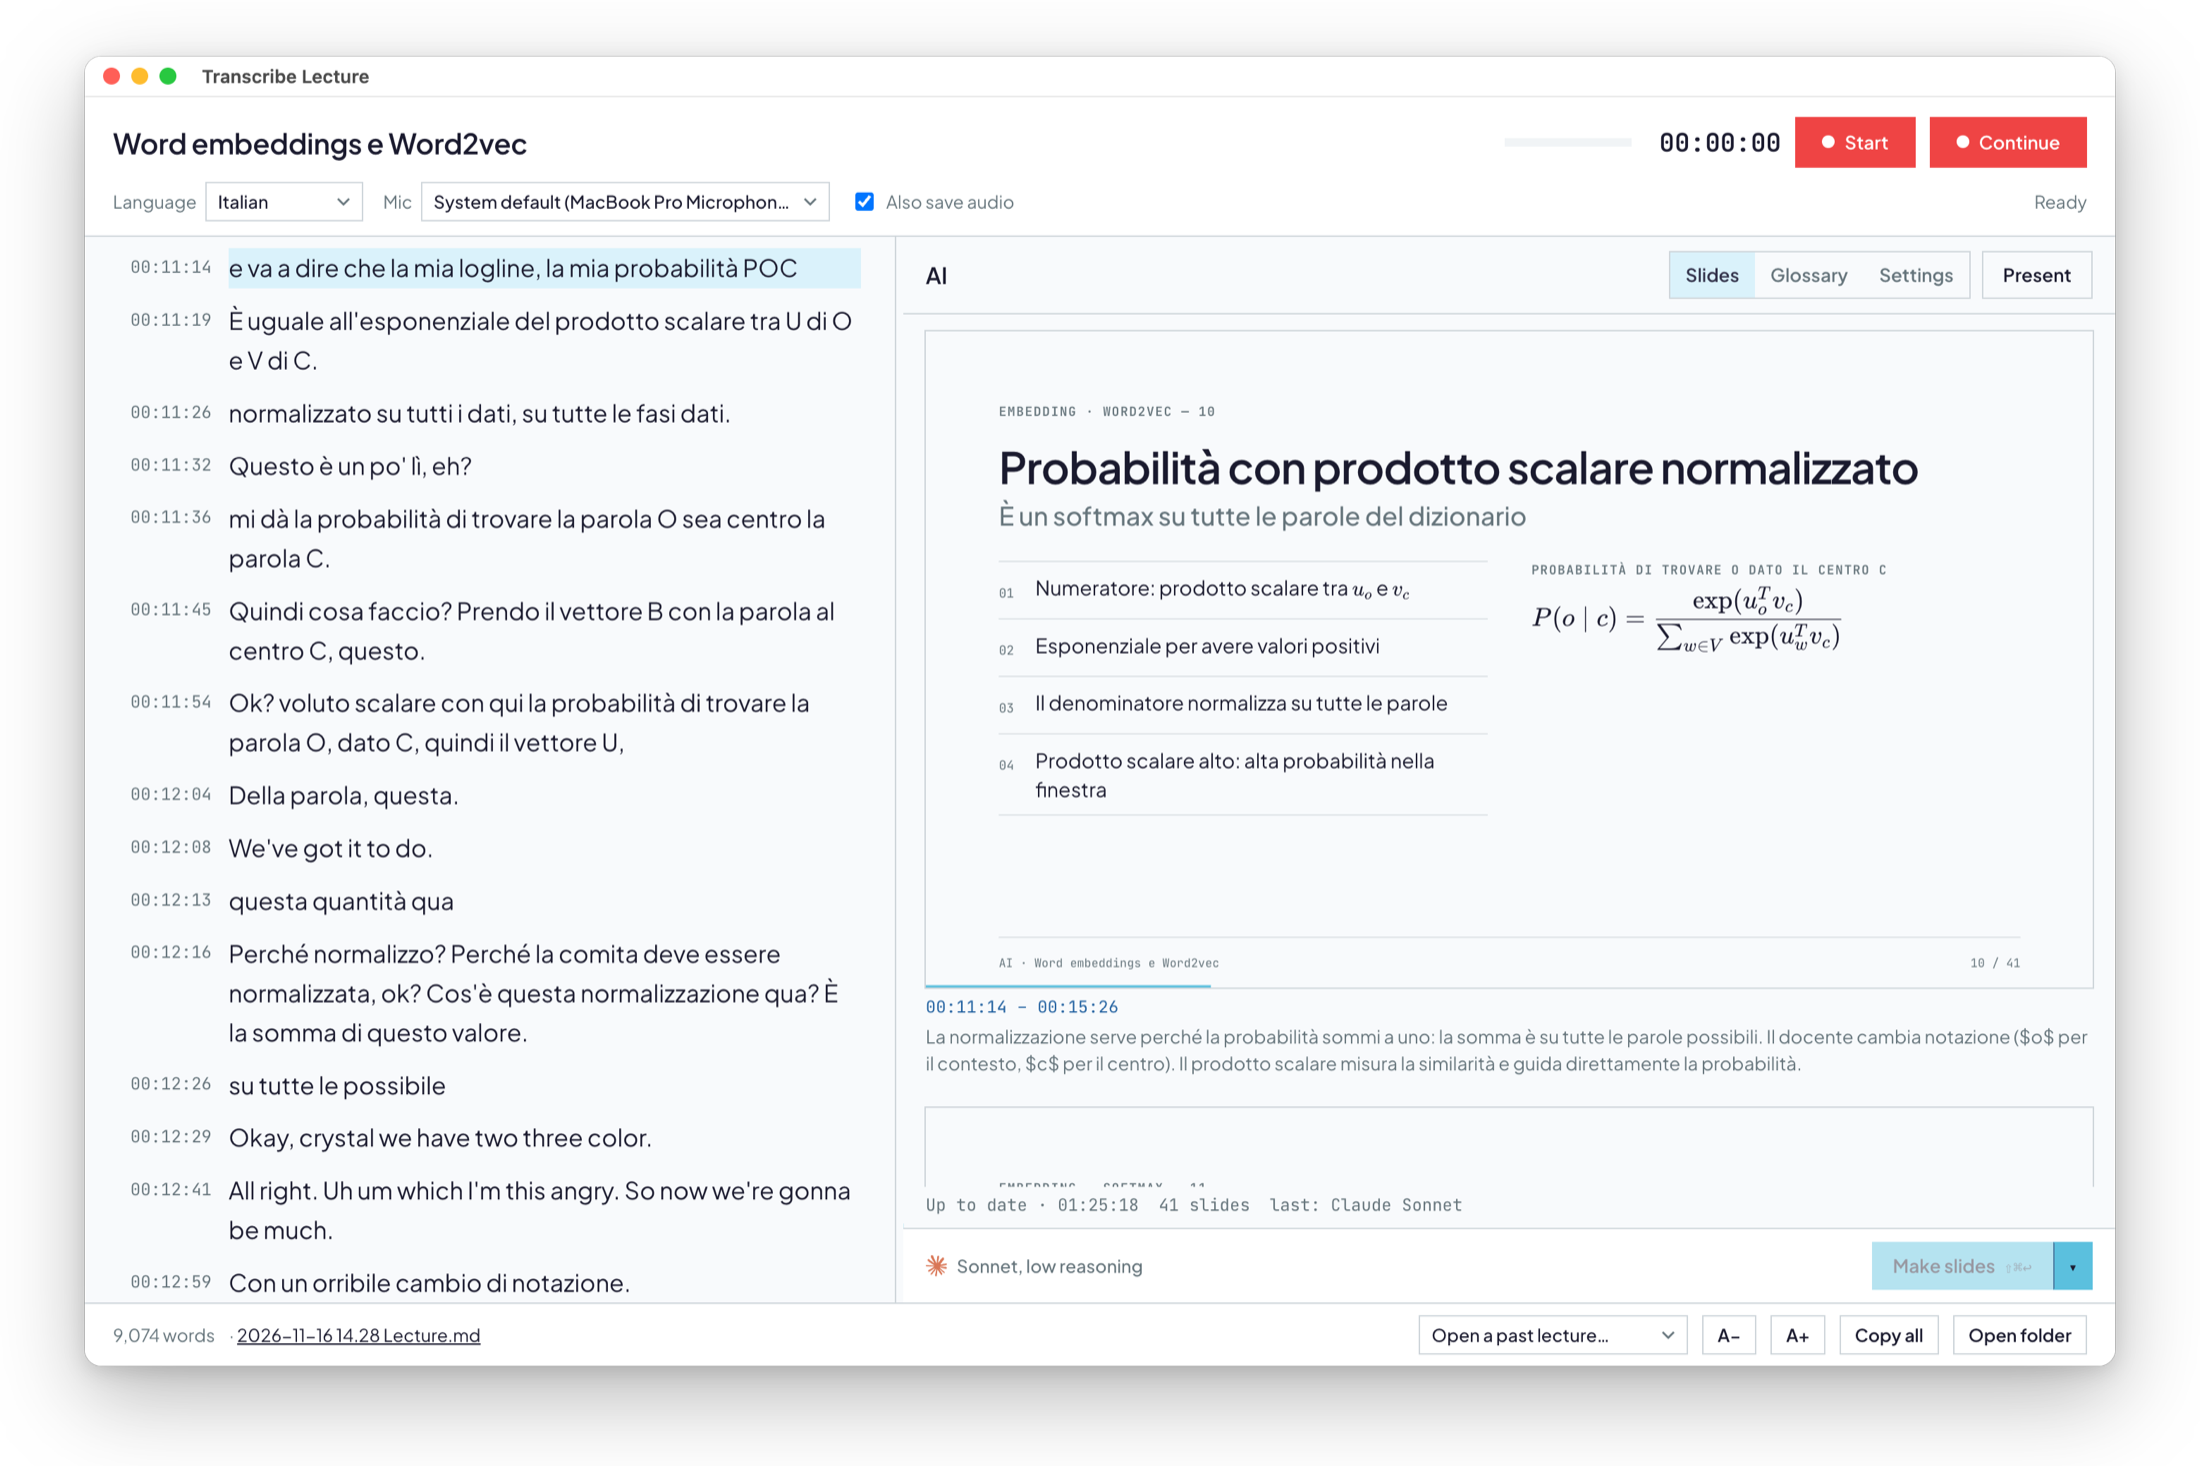
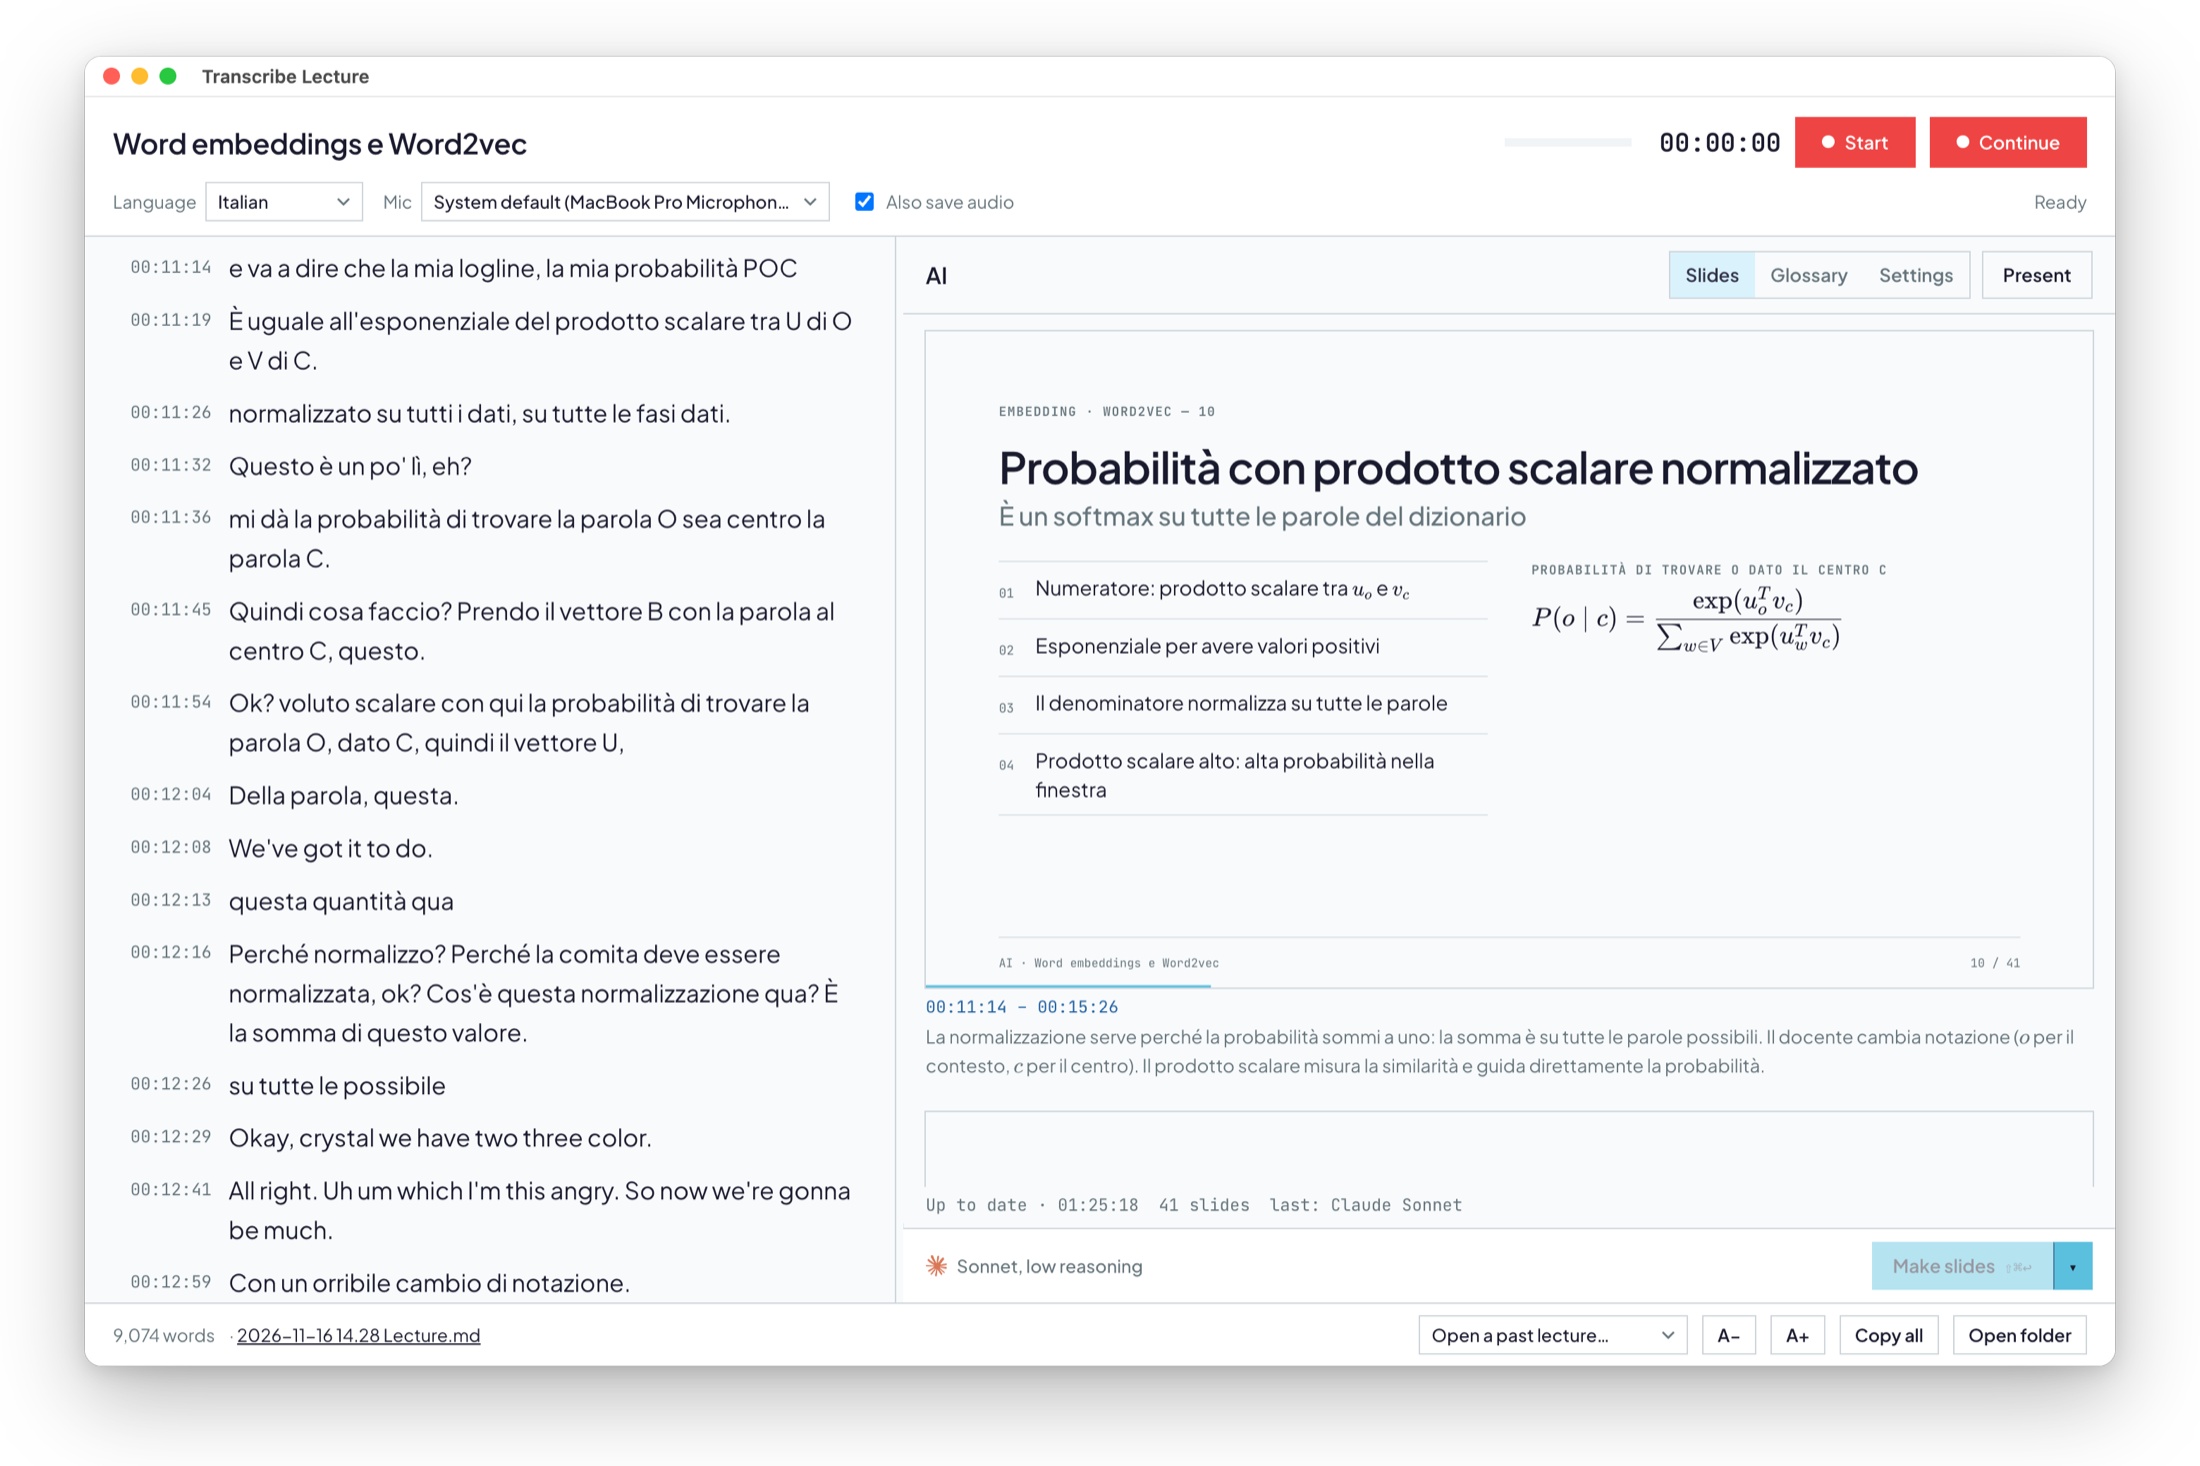
Render math, code and bold in slide notes (app and exported deck)
Notes were set as plain text, so $o$ showed as raw LaTeX. They now go through the same inline
renderer as the slides. Refreshes the README screenshot.

Changed region(s): [[0.0927, 0.1535, 0.4018, 0.2149], [0.4327, 0.706, 0.8036, 0.7367]]

diff --git a/src/deck.html b/src/deck.html
@@ -40,7 +40,7 @@ const deck = document.getElementById("deck");
 deck.innerHTML = DATA.map((s, i) => `<section><div class="fr" data-i="${i}">${renderSlide(s, i + 1, n, FOOT)}</div>` +
   `<div class="meta"><span>${[s.from, s.to].filter(Boolean).join(" – ")}</span></div>` +
   (s.notes ? `<p class="notes"></p>` : "") + `</section>`).join("");
-deck.querySelectorAll("section").forEach((sec, i) => { const p = sec.querySelector(".notes"); if (p) p.textContent = DATA[i].notes; });
+deck.querySelectorAll("section").forEach((sec, i) => { const p = sec.querySelector(".notes"); if (p) p.innerHTML = renderNotes(DATA[i].notes); });
 fitSlideText(deck);
 document.fonts && document.fonts.ready.then(() => fitSlideText(deck));
 const fit = (fr) => fr.style.setProperty("--k", fr.clientWidth / 1280);

diff --git a/src/ui.html b/src/ui.html
@@ -532,7 +532,7 @@ function renderSlides(freshFrom) {
     `<div class="si${freshFrom != null && i >= freshFrom ? " fresh" : ""}" id="si${i}"><div class="fr">${renderSlide(s, i + 1, slides.length, foot)}</div>` +
     `<div class="si-meta">${s.from ? `<a data-t="${s.from}" title="Show this part of the transcript">${s.from}${s.to ? " – " + s.to : ""}</a>` : ""}</div>` +
     (s.notes ? `<p class="si-notes"></p>` : "") + `</div>`).join("");
-  slides.forEach((s, i) => { const p = list.querySelector(`#si${i} .si-notes`); if (p) p.textContent = s.notes; });
+  slides.forEach((s, i) => { const p = list.querySelector(`#si${i} .si-notes`); if (p) p.innerHTML = renderNotes(s.notes); });
   renderedCount = slides.length;
   fitSlides();
   fitSlideText(list);

diff --git a/src/slides.js b/src/slides.js
@@ -654,6 +654,8 @@
   }
 
   window.renderSlide = slide;
+  // Speaker notes: same inline markup as the slides ($math$, `code`, **bold**, "(?)"). Escapes HTML.
+  window.renderNotes = inline;
 
   // Clicking a review card shows its answer (and doesn't open the slide).
   document.addEventListener("click", (e) => {
